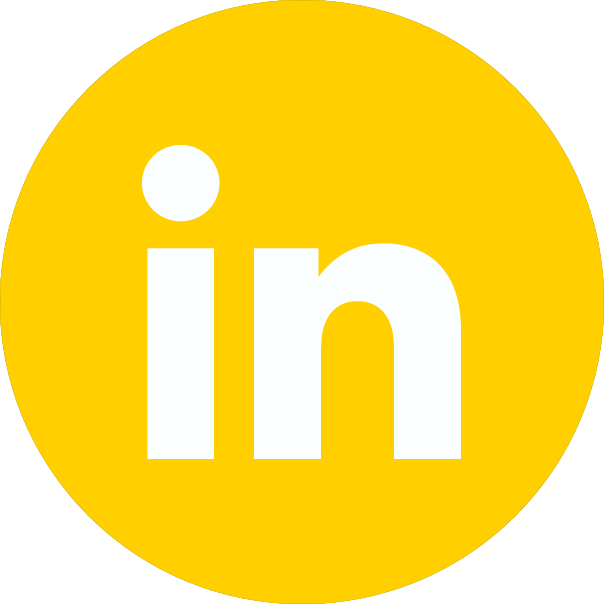
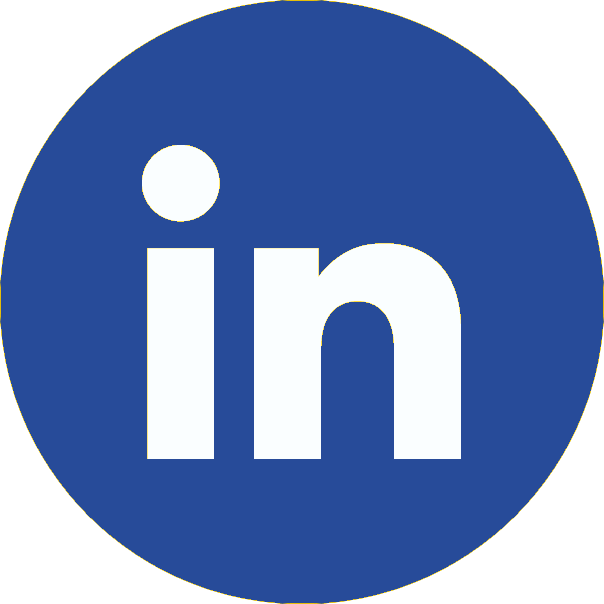
Redisigned view

diff --git a/index.html b/index.html
@@ -25,38 +25,31 @@
 <style>
 </style>
 <body>
-  <header class="w3-container w3-blue centertop">
-    <a class="siz_hed fclass"  href="#Contaco"> Contacto </a>
-    <a class="siz_hed fclass"  href="#Projects"> Proyectos </a>
-    <a class="siz_hed fclass"  href="#Habilidades"> Habilidades </a>
+  <header class=" test centertop">    
+    <a class="siz_hed fclass"  href="#Contaco"> Contacto  </a>
+    <a class="siz_hed fclass"  href="#Projects">  Proyectos  </a>
+    <a class="siz_hed fclass"  href="#Habilidades">  Habilidades  </a>     
   </header>
   <section class="fstsce">
     <div class="barra">
       <div class="w3-card-12 round_borders">
-          <img src="assets/carlos_img.png" alt="Carlos Duran Roca" class="myface">
-          <div class="w3-container w3-center">
-            <p>Ingeniero Informático</p>
-          </div>
+          <img src="assets/carlos_img.png" alt="Carlos Duran Roca" class="myface">          
       </div>      
     </div>
     <div class="barra2">
       <div class="social" id="Contaco">
             <a href="https://linkedin.com/in/carlosduranroca"><img alt="LinkedIn" src="assets/linkedin.png" class="social-icon"/></a>
-           <a href="https://github.com/duxy1996"><img alt="Github" src="assets/github.png" class="social-icon"/></a>
-            <a href="https://beewo.es"><img alt="Beewo" src="assets/beewo.png" class="social-icon"/></a>
+            <a href="https://github.com/duxy1996"><img alt="Github" src="assets/github.png" class="social-icon"/></a>            
             <a href="mailto://durancdr96@gmail.com"><img alt="Mail" src="assets/mail.png" class="social-icon"/></a>
             <a href="https://www.thingiverse.com/Duxy1996"><img alt="Thingiverse" src="assets/thingiverse.png" class="social-icon"/></a>
         </div>
       <div class="w3-card-24 round_borders_bottom">
-        <header class="w3-container w3-blue round_borders_top">
+        <header class="w3-container test round_borders_top">
             <h1 class="fclass">Carlos Durán Roca</h1>
         </header>
         <div class="w3-container">
-          <p class="mian_text">"Quizás no cambie el mundo, quizás sí."</br></p>
+          <p class="main_text">"I wanted to do everything, so I became informatic"</br></p>
         </div>
-        <footer class="w3-container w3-blue round_borders_bottom">
-          <h5>Estudiante-UPV</h5>
-        </footer>
       </div>
     </div>
   </section>  
@@ -69,7 +62,7 @@
               <img src="assets/img12.png" class="logotagBlack"/>
               </div>
               <div class="back face center tagBackColBack">
-                <div class="fclass mobile" >"Es un algoritmo de ordenación de cadenas en orden ascendente. Creado en Java en un primer momento pero exportado a Python y Ruby. Su eficiencia en los test demuestra que el coste es un poco superior a n mejorando el tiempo de QuickSort"<br>
+                <div class="fclass mobile" >"Es un algoritmo de ordenación de cadenas en orden ascendente. Creado en Java en un primer momento pero reimplementado a Python y Ruby. Su eficiencia en los test demuestra que el coste es un poco superior a n mejorando el tiempo de QuickSort"<br>
                 <a class="gogo" href="https://github.com/Duxy1996/FastInsertCode" class="fclass">GO!</a>
                 </div>                
               </div>
@@ -117,7 +110,7 @@
           </div>
     </div>      
   </section>
-  <section class="w3-container w3-blue centertop">
+  <section class="w3-container test centertop">
       <h5 class="fclass">Carlos Durán Roca</h5>
       <h5 class="fclass">2017</h5>
       </br>

diff --git a/css/mystyle.css b/css/mystyle.css
@@ -7,6 +7,7 @@
   margin-left: 45px;
   margin-right: 45px;  
   display: inline-block;
+  vertical-align: bottom;
 }
 
 .beauty {
@@ -27,9 +28,13 @@
   margin-right: 45px;  
   height: auto;
   display: inline-block;
-  text-align: right
+  text-align: right;
+  vertical-align: bottom;
 }
 
+.brown {
+  background: #FCFCFC;
+}
 .cc-card {
   padding: 1em;
   margin:0 auto;
@@ -47,6 +52,10 @@
 
 .centertop {
   text-align: center;
+}
+
+.dark-blue {
+  background-color: #274B99;
 }
 
 .face {
@@ -79,14 +88,6 @@
   background-color: #203D52;
 }
 
-.crop_color_two {
-  background-color: #00689D;
-}
-
-.crop_color_three {
-  background-color: #DFBA69;
-}
-
 .fstsce {
   width: auto;
   height: auto;  
@@ -99,7 +100,7 @@
 }
 
 .know {
-text-align: center;
+  text-align: center;
 }
 
 .know-icon {  
@@ -136,8 +137,8 @@ text-align: center;
   margin-top: 20px;  
 }
 
-.mian_text {
-  font-size: 40px;
+.main_text {
+  font-size: 30px;
 }
 
 .mobile {
@@ -148,6 +149,7 @@ text-align: center;
 .myface {
   width: 22em;
   height: 22em;
+  border-radius: 10px;
 }
 
 .round_borders {
@@ -159,7 +161,7 @@ text-align: center;
 }
 
 .round_borders_bottom {
-  border-radius:0px 0px 10px 10px;
+  border-radius: 10px 10px 10px 10px;
 }
 
 .siz_hed {
@@ -171,7 +173,7 @@ text-align: center;
 }
 
 .social-icon {  
-  width: 90px;
+  width: 110px;
   height: auto;
   margin: 1em;
   transition: 0.5s;
@@ -182,9 +184,9 @@ text-align: center;
   -webkit-filter: hue-rotate(-16deg);
   filter: hue-rotate(-16deg);
   -webkit-filter: hue-rotate(-16deg);
-  -moz-transform: translate(0px, -5px);
-  -webkit-transform: translate(0px, -5px);
-  transform: translate(0px, -5px);
+  -moz-transform: translate(0px, -30px);
+  -webkit-transform: translate(0px, -30px);
+  transform: translate(0px, -30px);
 }
 
 .tagBackCol {
@@ -192,11 +194,14 @@ text-align: center;
 }
 
 .tagBackColBack {
-  background: #2196F3;
+  background: #274B99;
 }
 
+.test {
+  background: #FFD166;
+}
 .withecol {
-  background-color: #2196F3;
+  background-color: #274B99;
   text-align: center;
   width: auto;
   height: auto;
